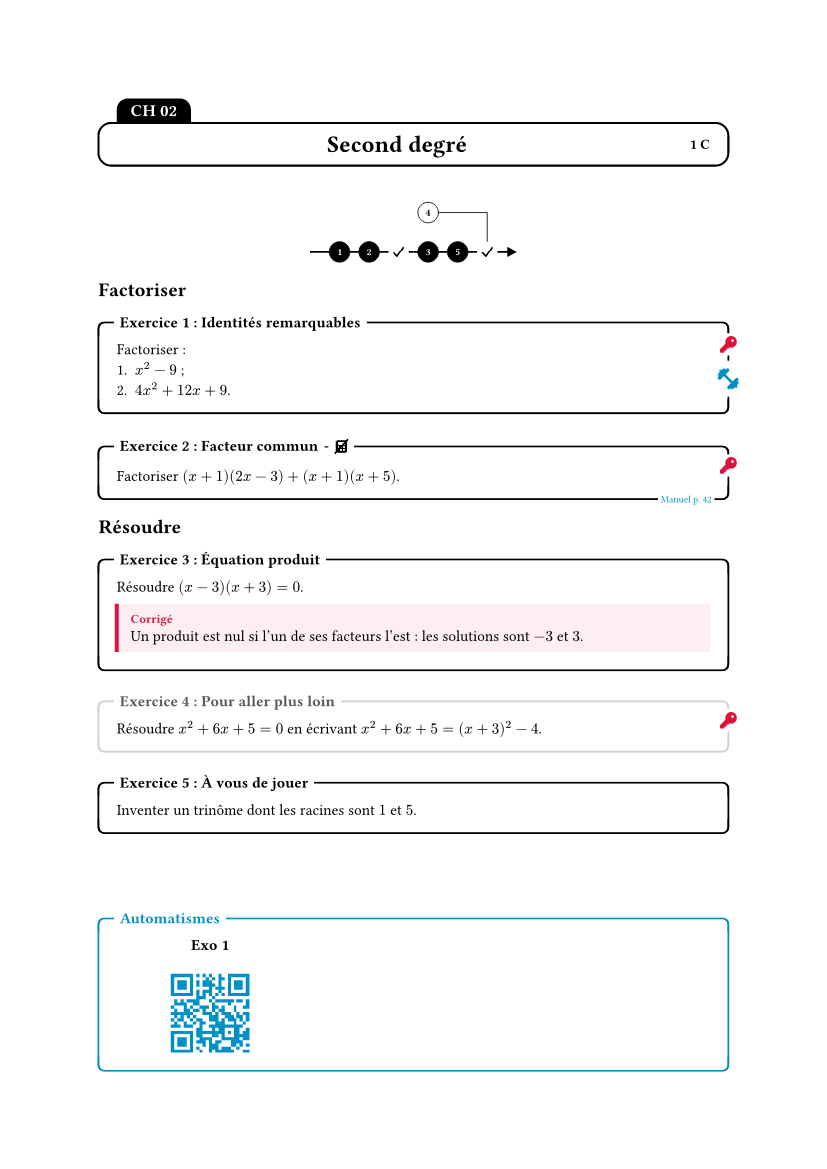
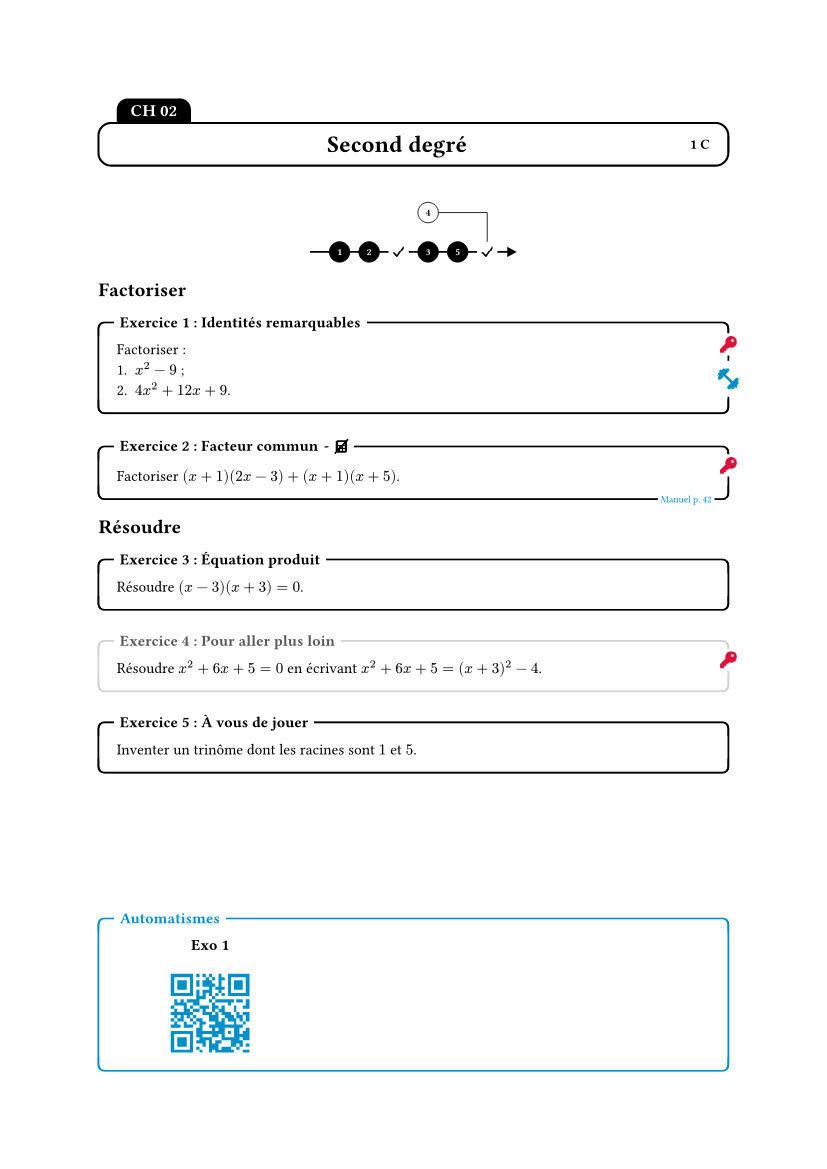
README : exemple sans zone Seyes

Changed region(s): [[0.0907, 0.5235, 0.9069, 0.7083], [0.8767, 0.6775, 0.9069, 0.7083], [0.0907, 0.6775, 0.1209, 0.7083]]

diff --git a/README.md b/README.md
@@ -16,7 +16,7 @@ titre, corrigés affichés ou non d'un seul réglage, et un mode « interro »
 ProfMaquette. See the [documentation, in French](https://amjmeyer.github.io/profmaquette-minimal/).*
 
 <p align="center">
-  <img src="docs/exemple-1.png" width="45%" alt="Page 1 du démarrage rapide ci-dessous : cartouche CH 02 Second degré 1 C, feuille de route centrée, exercices encadrés avec clé, haltère, source, calculatrice barrée et zone Seyes avec sa réponse, bloc Automatismes">
+  <img src="docs/exemple-1.png" width="45%" alt="Page 1 du démarrage rapide ci-dessous : cartouche CH 02 Second degré 1 C, feuille de route centrée, exercices encadrés avec clé, haltère, source et calculatrice barrée, bloc Automatismes">
   <img src="docs/exemple-2.png" width="45%" alt="Page 2 du démarrage rapide : corrigés regroupés en fin de fiche">
 </p>
 
@@ -55,8 +55,6 @@ Le code ci-dessous donne exactement les deux pages ci-dessus.
 #thematique[Résoudre]
 #exercice(titre: "Équation produit")[
   Résoudre $(x - 3)(x + 3) = 0$.
-  #seyes(2, afficher: true)[Un produit est nul si l'un de ses facteurs l'est :
-    les solutions sont $-3$ et $3$.]
 ]
 
 #exercice(titre: "Pour aller plus loin", route: false)[
